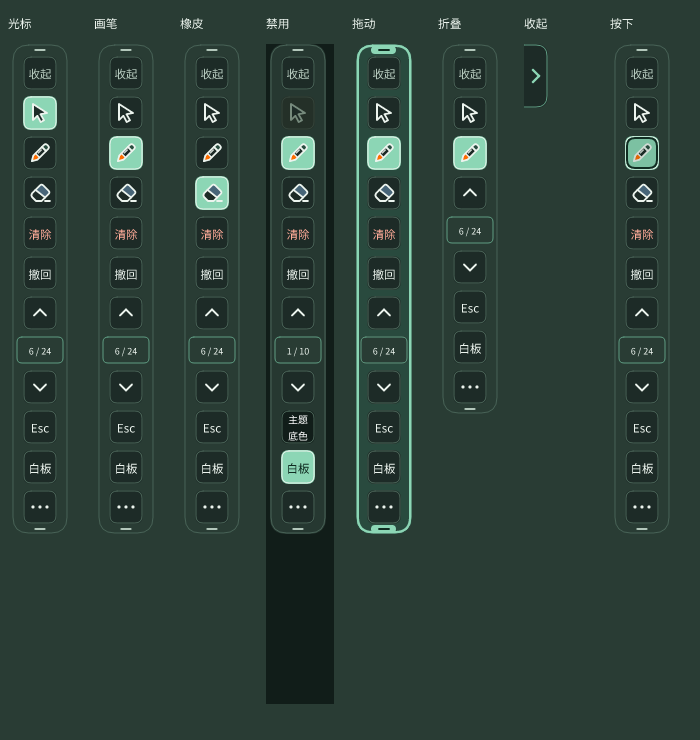
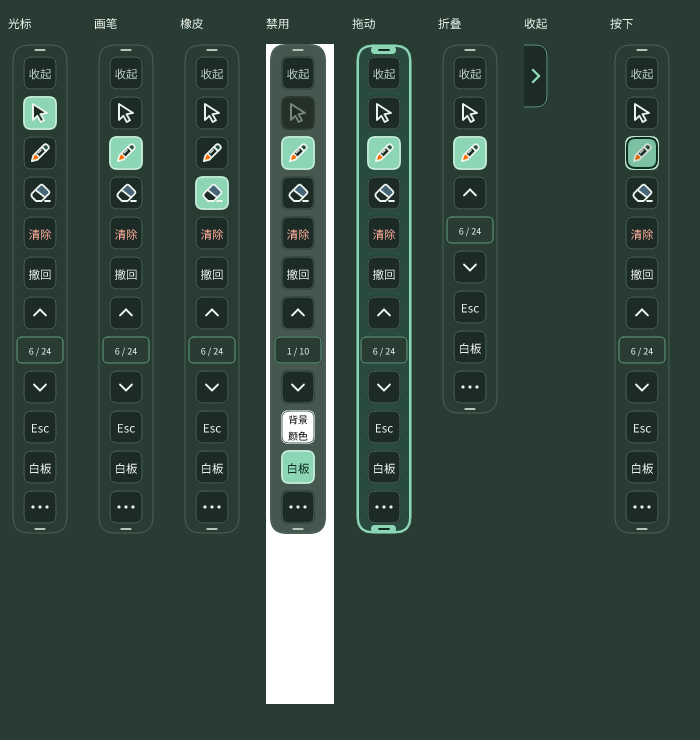
fix: keep whiteboard backgrounds independent of interface themes

Changed region(s): [[0.36, 0.0622, 0.48, 0.9635]]

diff --git a/rust/src/app.rs b/rust/src/app.rs
@@ -28,8 +28,6 @@ pub const STROKE_RAMP_MS: i64 = 600;
 pub const STROKE_MIN_SCALE: f64 = 0.85;
 
 pub const WHITEBOARD_COLORS: [(u8, u8, u8); 2] = [(0x0F, 0x3D, 0x2E), (255, 255, 255)];
-pub const WHITEBOARD_THEME: i32 = 2;
-pub const WHITEBOARD_BACKGROUND_COUNT: i32 = 3;
 
 pub const COLORS: [(u8, u8, u8); 10] = [
     (255, 40, 40),
@@ -222,7 +220,7 @@ impl App {
             show_diag: false,
             diag_text: String::new(),
             whiteboard: false,
-            whiteboard_bg_index: WHITEBOARD_THEME,
+            whiteboard_bg_index: 1,
             saved_mode: 0,
             launch: crate::launch::Launch::default(),
             collapsed: false,
@@ -395,8 +393,7 @@ impl App {
         ERASER_SIZES[self.cur_eraser]
     }
     pub fn whiteboard_bg_color(&self) -> Color {
-        if self.whiteboard_bg_index == WHITEBOARD_THEME { crate::ui_theme::c(self.theme.palette().board) }
-        else { whiteboard_bg(self.whiteboard_bg_index) }
+        whiteboard_bg(self.whiteboard_bg_index)
     }
 
     /// A theme switch only invalidates UI artwork, never canvas/undo/page caches.
@@ -700,12 +697,6 @@ fn parse_settings(app: &mut App, content: &str) {
                     app.apply_theme(crate::ui_theme::Theme { preference, ..app.theme });
                 }
             }
-            "whiteboardBackground" => match v {
-                "green" => app.whiteboard_bg_index = 0,
-                "white" => app.whiteboard_bg_index = 1,
-                "theme" => app.whiteboard_bg_index = WHITEBOARD_THEME,
-                _ => {}
-            },
             "wpsDebug" => app.wps_debug = v == "1",
             "sbScale" => {
                 if let Ok(f) = v.parse::<f64>() {
@@ -743,7 +734,7 @@ pub fn save_settings(app: &App) {
 
 fn serialize_settings(app: &App) -> String {
     format!(
-        "wpsDebug={}\nsbScale={:.2}\nsidebarAlpha={}\nrightClickCursor={}\neraseByFinger={}\nlargeTouchThreshold={}\nlargeEraseScale10={}\ntheme={}\nwhiteboardBackground={}\n",
+        "wpsDebug={}\nsbScale={:.2}\nsidebarAlpha={}\nrightClickCursor={}\neraseByFinger={}\nlargeTouchThreshold={}\nlargeEraseScale10={}\ntheme={}\n",
         if app.wps_debug { 1 } else { 0 },
         app.sb_scale,
         app.sidebar_alpha,
@@ -752,7 +743,6 @@ fn serialize_settings(app: &App) -> String {
         app.large_touch_threshold as i32,
         app.large_erase_scale10,
         app.theme.preference.key(),
-        match app.whiteboard_bg_index { 0 => "green", 1 => "white", _ => "theme" },
     )
 }
 
@@ -994,14 +984,14 @@ mod theme_tests {
     use crate::ui_theme::{Preference, Theme};
 
     #[test]
-    fn preferences_and_explicit_board_background_round_trip_without_persisting_system_state() {
+    fn preferences_round_trip_without_persisting_system_or_board_state() {
         let make = || App::new(Pixmap::new(120, 100).unwrap(), 120, 100);
         let mut legacy = make();
         parse_settings(&mut legacy, "sbScale=1.13\nsidebarAlpha=99\n");
         assert_eq!(legacy.theme.preference, Preference::Light);
-        assert_eq!(legacy.whiteboard_bg_index, WHITEBOARD_THEME);
+        assert_eq!(legacy.whiteboard_bg_index, 1);
         for preference in [Preference::Light, Preference::Dark, Preference::System] {
-            for background in 0..WHITEBOARD_BACKGROUND_COUNT {
+            for background in 0..WHITEBOARD_COLORS.len() as i32 {
                 let mut source = make();
                 source.theme = Theme { preference, system_dark: true };
                 source.whiteboard_bg_index = background;
@@ -1010,11 +1000,16 @@ mod theme_tests {
                 parse_settings(&mut loaded, &serialize_settings(&source));
                 assert_eq!(loaded.theme.preference, preference);
                 assert!(!loaded.theme.system_dark);
-                assert_eq!(loaded.whiteboard_bg_index, background);
+                assert_eq!(loaded.whiteboard_bg_index, 1);
                 assert_eq!(loaded.sb_scale, source.sb_scale);
-                parse_settings(&mut loaded, "theme=unknown\nwhiteboardBackground=999\n");
-                assert_eq!(loaded.theme.preference, preference);
-                assert_eq!(loaded.whiteboard_bg_index, background);
+                assert!(!serialize_settings(&source).contains("whiteboardBackground"));
+                // Ignore the withdrawn .32 option, including files saved by it.
+                loaded.whiteboard_bg_index = background;
+                for old_option in ["theme", "white", "green", "999"] {
+                    parse_settings(&mut loaded, &format!("theme=unknown\nwhiteboardBackground={old_option}\n"));
+                    assert_eq!(loaded.theme.preference, preference);
+                    assert_eq!(loaded.whiteboard_bg_index, background);
+                }
             }
         }
     }
@@ -1030,7 +1025,7 @@ mod theme_tests {
         app.launch.card.get_mut().replace(Pixmap::new(8, 8).unwrap());
         assert!(app.apply_theme(Theme { preference: Preference::Dark, system_dark: false }));
         assert!(app.launch.card.borrow().is_none());
-        assert_ne!(app.whiteboard_bg_color(), light_board);
+        assert_eq!(app.whiteboard_bg_color(), light_board);
         assert_eq!(app.canvas.data(), ink);
         assert_eq!(app.slide_cache.get(&1).unwrap().data(), ink);
         assert_eq!(app.undo.len(), 1);

diff --git a/rust/src/ui_theme.rs b/rust/src/ui_theme.rs
@@ -1,4 +1,4 @@
-//! Semantic UI colours. Actual annotation ink and explicitly chosen board
+//! Semantic UI colours. Actual annotation ink and whiteboard
 //! backgrounds never change when the interface theme changes.
 use tiny_skia::Color;
 
@@ -38,7 +38,7 @@ pub struct Palette {
     pub accent: u32, pub accent_light: u32, pub accent_line: u32, pub on_accent: u32,
     pub success: u32, pub on_success: u32,
     pub danger: u32, pub danger_light: u32, pub warning: u32, pub warning_light: u32,
-    pub eraser: u32, pub splash_header: u32, pub board: u32,
+    pub eraser: u32, pub splash_header: u32,
 }
 
 pub const LIGHT: Palette = Palette {
@@ -48,7 +48,7 @@ pub const LIGHT: Palette = Palette {
     accent: 0x216F62, accent_light: 0xDCEEE5, accent_line: 0x8DB5A3, on_accent: 0xFFFFFF,
     success: 0x2F774C, on_success: 0xFFFFFF,
     danger: 0xA44234, danger_light: 0xF8E9E3, warning: 0x906017, warning_light: 0xFFF0D7,
-    eraser: 0xD5E5EB, splash_header: 0xEDF4EE, board: 0xFFFFFF,
+    eraser: 0xD5E5EB, splash_header: 0xEDF4EE,
 };
 
 pub const DARK: Palette = Palette {
@@ -58,7 +58,7 @@ pub const DARK: Palette = Palette {
     accent: 0x8CD6B5, accent_light: 0x294D40, accent_line: 0x5E9C82, on_accent: 0x102D22,
     success: 0x8CD0A0, on_success: 0x142F20,
     danger: 0xFFAB98, danger_light: 0x4B2D29, warning: 0xF0C784, warning_light: 0x473A25,
-    eraser: 0x476578, splash_header: 0x253D32, board: 0x111D19,
+    eraser: 0x476578, splash_header: 0x253D32,
 };
 
 pub fn alpha(rgb: u32, a: u8) -> Color {

diff --git a/rust/src/ui.rs b/rust/src/ui.rs
@@ -1253,10 +1253,7 @@ fn draw_btn(app: &App, fonts: &Fonts, ctx: &mut Ctx, k: Btn, r: R) {
         Btn::Undo => ctx.text_center(fonts, r, "撤回", (btn * 0.49).max(11.0), ink),
         Btn::Whiteboard => ctx.text_center(fonts, r, "白板", (btn * 0.49).max(11.0), ink),
         Btn::Exit => {
-            let label = match app.whiteboard_bg_index {
-                0 => "绿板\n底色", 1 => "白纸\n底色", _ => "主题\n底色",
-            };
-            ctx.text_multiline_center(fonts, r, label, (btn * 0.42).max(10.0), ink);
+            ctx.text_multiline_center(fonts, r, "背景\n颜色", (btn * 0.42).max(10.0), ink);
         }
     }
 }

diff --git a/rust/src/main.rs b/rust/src/main.rs
@@ -510,8 +510,7 @@ pub(crate) fn go_next(rt: &Rt, app: &mut App, wps: Option<&WpsBridge>) {
 
 pub(crate) fn exit_presentation(rt: &Rt, app: &mut App, wps: Option<&WpsBridge>) {
     if app.whiteboard {
-        app.whiteboard_bg_index = (app.whiteboard_bg_index + 1) % app::WHITEBOARD_BACKGROUND_COUNT;
-        app::save_settings(app);
+        app.whiteboard_bg_index = (app.whiteboard_bg_index + 1) % app::WHITEBOARD_COLORS.len() as i32;
         rt.redraw_full(app);
         return;
     }

diff --git a/rust/examples/render_themes.rs b/rust/examples/render_themes.rs
@@ -141,7 +141,7 @@ fn main() {
         add("actions", "放映状态 · 切换分帧", actions, 24, 822);
         sheet.save_png(out.join(format!("{}-panels.png", preference.key()))).unwrap();
 
-        for (background, name) in [(app::WHITEBOARD_THEME, "theme"), (0, "green"), (1, "white")] {
+        for (background, name) in [(0, "green"), (1, "white")] {
             let mut a = fresh(preference);
             a.whiteboard = true;
             a.whiteboard_bg_index = background;

diff --git a/docs/DARK_MODE.md b/docs/DARK_MODE.md
@@ -15,7 +15,7 @@
 | 翻页与联动 | 当前页/总页数、拨轮及取消/跳转按钮、邻近数字、Esc/开始/结束放映及颜色过渡、不可用状态 |
 | 设置 | 标题与主题选择、滑条、参数、默认按钮、开关、状态文字、日志、诊断、退出与完成、原作者及辅助署名 |
 | 弹窗与启动 | 更多菜单、诊断信息、退出确认；启动品牌区、准备状态、警告、进度、淡出及工具栏展开的临时图层 |
-| 白板 | 默认底色随主题；页码、背景切换按钮根据实际底色选字色；保留固定白纸和绿板 |
+| 白板 | 底色保持原来的白色／绿板；工具界面跟随主题，页码和背景按钮按实际底色选字色 |
 | 多屏与后端 | X11/XWayland、GNOME 原生、layer-shell 共用同一绘制与主题状态；所有输出同步，新接入输出继承当前选择 |
 
 软件标志保持原有图案与品牌配色。画笔的实际 RGB 值和课件/桌面图像不做反色处理，避免改坏批注含义。透明工具栏仍按用户设置与底下的桌面混合；选择深色不会偷偷改变透明度。
@@ -24,7 +24,7 @@
 
 ## 白板与内容
 
-默认背景为「随主题」：浅色显示白纸，深色显示深色书写底。白板内原来的背景颜色按钮循环 **随主题 → 绿板 → 白纸 → 随主题**，并显示「主题底色 / 绿板底色 / 白纸底色」区分当前选择；显式选择会保存，固定白纸/绿板不会被系统主题覆盖。切换界面或背景不清除画布、撤回、页缓存或当前页。
+白板底色沿用原来的逻辑：启动默认为白色，通过「背景颜色」按钮在白色和绿板间切换。界面无论处于浅色、深色还是跟随系统，都不会改变白板底色；不新增主题底色选项，也不改变原有的背景选择保存方式。此前 `.32` 的实验性背景配置会被忽略。
 
 笔迹按选择的颜色原样保存。例如白笔画在白纸上仍是白色；需要保持可见时可选深色背景或换笔色。关闭白板再打开保留本次运行内容，退出整个程序后仍不保存笔迹，这一点与此前相同。
 
@@ -40,7 +40,7 @@
 - [system_theme.rs](../rust/src/system_theme.rs) 负责有时限的只读检测；[app.rs](../rust/src/app.rs) 保存偏好、更新主题及启动缓存。
 - [render_themes.rs](../rust/examples/render_themes.rs) 调用实际绘制函数，生成两套面板、工具栏状态、白板背景与课堂示意；不启动桌面或 WPS。预览见 [图片目录说明](assets/preview/README.md)。
 
-隔离检查覆盖三档配置往返与无效值、真实 D-Bus 编码和偏好变化（私有模拟服务）、主要文字/按钮及拨轮对比度、1×/1.5×/2×全部面板绘制、启动缓存换色、多屏同步，以及笔迹/白板页/撤回保留。命令：
+隔离检查覆盖三档配置往返与无效值、真实 D-Bus 编码和偏好变化（私有模拟服务）、主要文字/按钮及拨轮对比度、1×/1.5×/2×全部面板绘制、启动缓存换色、多屏同步，以及白板底色/笔迹/页码/撤回保留。命令：
 
 本轮普通 Rust 用例 **103 项通过**，另外 **11 项私有 Xvfb** 和 **2 项私有 Sway** 检查通过；发布二进制的 **16 项启动诊断** 通过。新增的 8 项主题用例在普通测试内；Clippy 完成，保留原有代码风格提示，主题代码未新增提示。
 
@@ -52,16 +52,3 @@ python3 tools/test_rust.py --wayland
 ```
 
 图像检查与隔离协议检查不能替代实机操作。由用户在真实桌面验收：切换三档并重启程序、系统明暗切换、WPS 放映、绘图穿透、白板往返、多个显示器与触屏。不能据此宣称所有桌面版本已经通过。
-
-## 本地测试包
-
-2026-10-25 已从源码 `21a91d57996a77da42040992e20cf4df3c1cbc78` 编译并覆盖安装 **3.0-Electro-testing+custom20261025.32** 到 VMware Ubuntu 26.04.1 amd64。包要求 libc6 ≥ 2.43；不能将此包视为 Ubuntu 24.04 或麒麟 ARM64 的安装包。
-
-- 安装状态为 `install ok installed`，37 个安装文件的 SHA-256 与包内容一致。
-- 原有用户配置校验一致，GNOME 扩展文件未变化；不需要为此次主题更新重新登录桌面。
-- 安装时保留旧 Sidera 进程，用户退出并重新打开后使用新版；未操作真实桌面或 WPS。
-- `.31` 安装包与旧二进制已备份至虚拟机的 `/var/backups/sidera-compat-20261025/`。
-
[1 lines of base64/hex data omitted]
-
[1 lines of base64/hex data omitted]

diff --git a/README.md b/README.md
@@ -36,7 +36,7 @@
 
 ![深色课堂界面：深灰绿面板、薄荷绿选中态、保留原色的画笔](docs/assets/preview/classroom-dark.png)
 
-在设置顶部选择 **浅色 / 深色 / 跟随系统**，立即生效并保存。工具栏、弹窗、设置、启动页和默认白板一起适配；实际笔迹保持原色。参见[主题使用与验证范围](docs/DARK_MODE.md)。
+在设置顶部选择 **浅色 / 深色 / 跟随系统**，立即生效并保存。工具栏、弹窗、设置和启动页统一适配；白板底色与实际笔迹保持原样。参见[主题使用与验证范围](docs/DARK_MODE.md)。
 
 </details>
 
@@ -74,7 +74,7 @@
 | 工具与反馈 | 笔尖跟随所选颜色，橡皮图标随尺寸适度变化；选中态明显，取消悬浮反馈，强化按下反馈。 |
 | 绘图工具组 | 默认收起橡皮、清除与撤回，保留画笔与翻页入口；选画笔展开，清除后收回，光标模式下空画布在切换或翻页后收回。返回有笔迹页自动展开（本地 custom.30 修复）；白板模式保持展开。 |
 | 工具栏拖动 | 上下两个拖拽点，拖动高亮，范围限制在屏幕内；整栏收起后只留边缘小角，不自动弹开。 |
-| 白板 | 进入即切换画笔，光标按钮禁用；关闭再打开保留本次运行的内容与页码。默认底色跟随界面，也可切换固定绿板或白纸。**退出程序后不持久保存笔迹。** |
+| 白板 | 进入即切换画笔，光标按钮禁用；关闭再打开保留本次运行的内容与页码。保持原来的白色／绿板切换，底色不跟随界面主题。**退出程序后不持久保存笔迹。** |
 | WPS 联动 | 识别文档后可从当前页开始放映，放映中显示“结束放映”；真实换页切换批注，页内动画不切换页缓存。 |
 | 页码与跳页 | 显示当前页 / 总页数；点击页码打开拨轮，选好后点“跳转”。WPS 未联动或两项页码均未知时隐藏；白板显示自身页码。 |
 | 未接入 WPS | 上下键与 Esc 使用桌面支持的直接按键模拟；能力不可用时用颜色提示，不因翻页发起共享桌面授权。 |

diff --git a/CHANGELOG.md b/CHANGELOG.md
@@ -2,14 +2,13 @@
 
 记录本仓库 `custom` 分支的用户可见变化。上游发行版请查看[原项目](https://github.com/offduckling4825/Sidera--screen-annotate-for-linux/releases)。
 
-## 未发布 · 本地 custom.32 深色模式
+## 未发布 · 深色模式
 
 - Rust 3.0 新增浅色、深色和跟随系统三档主题，设置内即时切换并保存；默认沿用浅色，保持原有工具栏与设置操作行的位置。
 - 覆盖工具栏、收起把手、拖动/按下/禁用状态、画笔和橡皮、页码拨轮、放映切换、更多菜单、设置、诊断、退出确认及启动动画；多显示器同步主题，启动缓存随主题失效。
-- 白板默认跟随主题，仍可选择固定白色或绿板并记住选择；切换不修改实际笔迹、撤回记录或页缓存。页码与色块勾选按实际底色计算对比度。
+- 白板保持原来的白色／绿板底色和切换逻辑，不随界面主题变化；切换主题不修改实际笔迹、撤回记录或页缓存。页码与色块勾选按实际底色计算对比度。
 - 通过只读桌面外观接口跟随系统，不请求共享桌面授权；读取有超时保护，不在绘图线程等待桌面服务。
 - 新增离线双主题预览、配置/多屏/渲染检查与私有 D-Bus 模拟；真实桌面操作仍由用户验收，详见[主题说明](docs/DARK_MODE.md)。
-- `.32` 已编译并覆盖安装到 VMware Ubuntu 26.04.1，37 个安装文件校验通过；安装保留旧进程与用户配置，需用户重开 Sidera 后验收。
 
 ## 未发布 · CI 环境修复
 

diff --git a/docs/TEST_ENVIRONMENT.md b/docs/TEST_ENVIRONMENT.md
@@ -108,7 +108,7 @@ dpkg-deb -f ../sidera_3.0-Electro-testing+local1_amd64.deb Architecture Depends
 | 组 | 场景 | 通过标准 |
 | --- | --- | --- |
 | G01 / G02 | 画笔、橡皮、撤回、不同 DPI、边缘 | 笔迹连贯；撤回恢复对应像素 |
-| 主题 | 三档即时切换、重启、系统偏好变化、多显示器、白板三种底色 | 所有界面和动画一致，字色清晰，内容与页码不变；不出现共享桌面授权 |
+| 主题 | 三档即时切换、重启、系统偏好变化、多显示器、白板白色／绿板 | 所有界面和动画一致，字色清晰，白板底色、内容与页码不变；不出现共享桌面授权 |
 | G03 | 画线→光标→操作底层窗口；工具面板开关 | 穿透正常、无闪烁和残片 |
 | G04 | 单指、多指、大触点、静止按住、Cancel | 无假松手、重复鼠标笔迹或拖动残留 |
 | G05 / G09 | 白板进出、多页；白板中外部换页/结束/新课件 | 白板保留，退出恢复最新透明页 |
